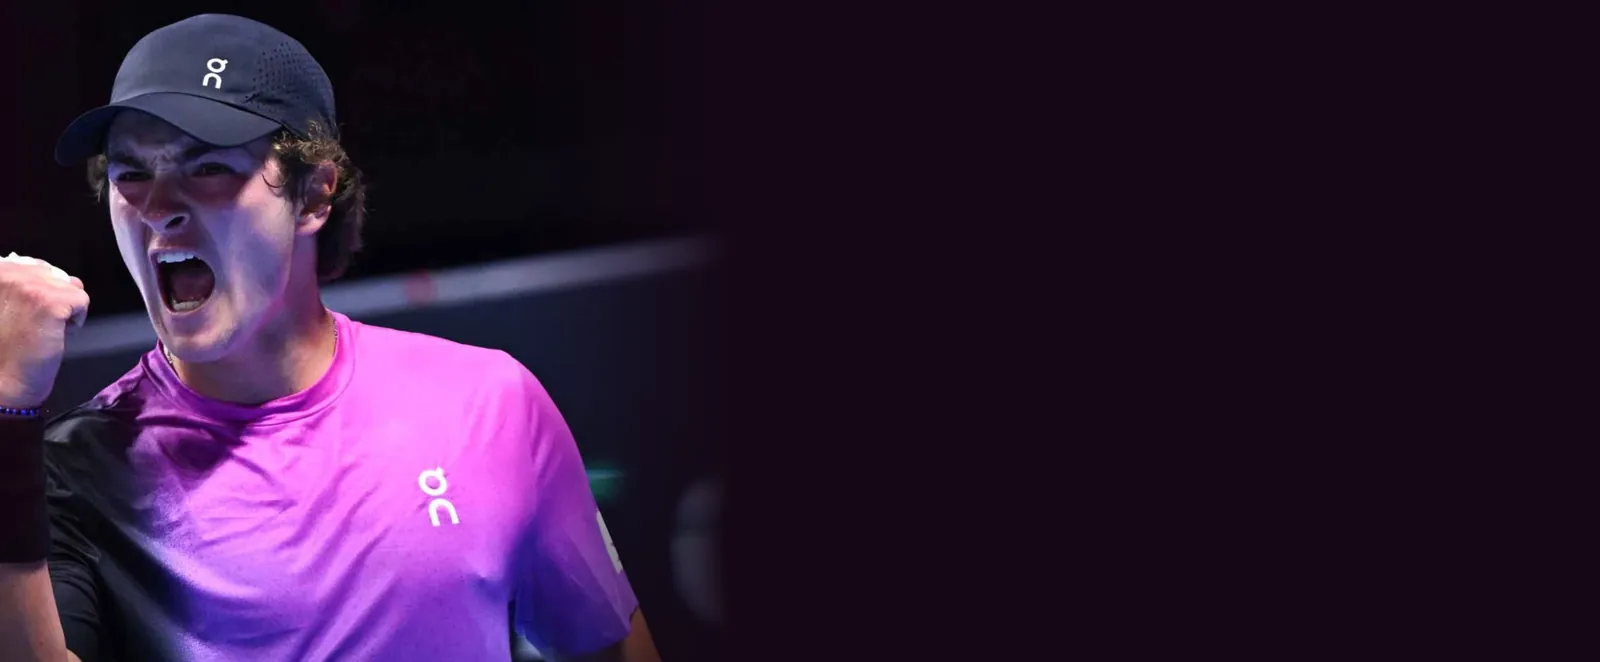
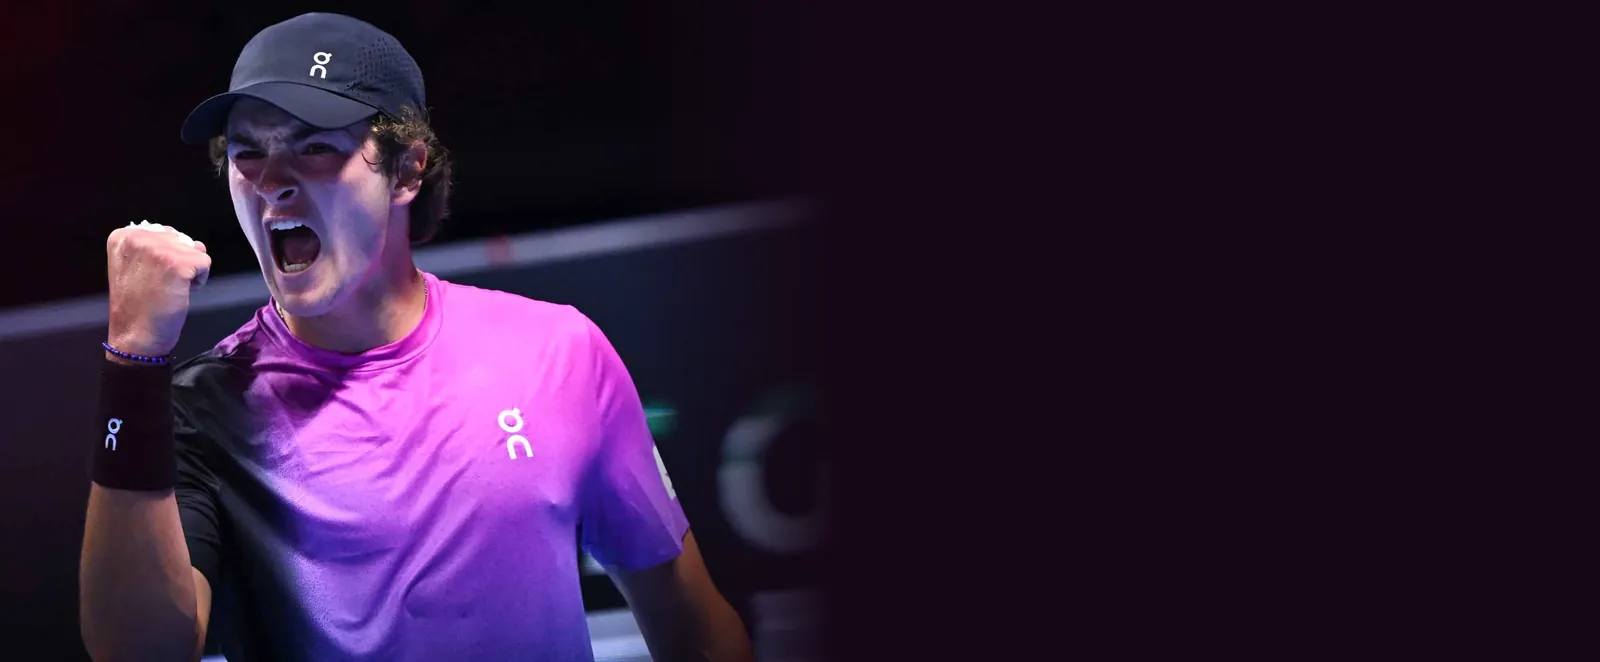
Hospitalidade: fotos novas, subtítulo em uma linha e layout mobile limpo
- Troca as 4 fotos pelas originais enviadas (F1, PSG, Flamengo, João Fonseca)
- Desktop: subtítulo da seção em uma linha
- Mobile: foto solta em cima (16:9, sem degradê), respiro de 20px e texto,
  pills e foto alinhados na mesma margem; 44px entre os cards

Claude-Session: https://claude.ai/code/session_01HFqF5fQmqXePv9obHE1jZL

Changed region(s): [[0.0, 0.0, 0.5, 1.0]]

diff --git a/index.html b/index.html
@@ -506,7 +506,7 @@
       font-size: 17px;
       line-height: 1.6;
       color: var(--accent);
-      max-width: 620px;
+      max-width: none;
       margin: 0 0 36px;
     }
     .hosp-title {
@@ -521,6 +521,7 @@
       margin-bottom: 16px;
     }
     .hosp-date { color: var(--white); font-weight: 400; }
+    .hosp-photo { display: none; }
     #hospitalidade .featured-content { max-width: 620px; }
     .hosp-foot {
       display: flex;
@@ -1109,21 +1110,25 @@
     .featured-pills,
     .featured-card.align-right .featured-pills { justify-content: flex-start; }
     .featured-pill { font-size: 11px; padding: 5px 12px; }
-    /* hospitalidade no celular: foto em cima, texto embaixo no fundo liso */
-    .hosp-card {
+    /* hospitalidade no celular: foto solta em cima (sem degradê), texto alinhado embaixo */
+    #hospitalidade .featured-stack { gap: 44px; }
+    #hospitalidade .featured-card.hosp-card {
       height: auto;
-      background-size: auto 220px;
-      background-repeat: no-repeat;
-      background-position: right top;
+      aspect-ratio: auto;
+      overflow: visible;
+      background: none !important;
     }
-    .hosp-card.align-right { background-position: left top; }
-    #hospitalidade .featured-card.hosp-card { height: auto; }
     .hosp-card::before,
-    .hosp-card.align-right::before {
-      background: linear-gradient(to bottom, transparent 0, transparent 110px, var(--bg) 214px, var(--bg) 100%);
+    .hosp-card.align-right::before { display: none; }
+    .hosp-photo {
+      display: block;
+      width: 100%;
+      height: auto;
+      aspect-ratio: 16 / 9;
+      object-fit: cover;
     }
     .hosp-card .featured-content,
-    .hosp-card.align-right .featured-content { padding-top: 232px; padding-bottom: 8px; }
+    .hosp-card.align-right .featured-content { padding: 20px 0 0; }
     .hosp-intro { font-size: 15px; margin-bottom: 24px; }
     .hosp-foot { flex-direction: column; align-items: flex-start; }
 
@@ -1599,6 +1604,7 @@
 
       <div class="featured-stack fade-in">
         <div class="featured-card hosp-card" style="background-image:url('assets/img/hosp-f1.webp');">
+          <img class="hosp-photo" src="assets/img/hosp-f1-m.webp" width="800" height="450" alt="Fórmula 1 em Interlagos" loading="lazy" decoding="async" />
           <div class="featured-content">
             <div class="featured-cat" data-i18n="hosp_f1_cat">AUTOMOBILISMO • INTERLAGOS</div>
             <h3 class="hosp-title" data-i18n="hosp_f1_title">FÓRMULA 1<br>GP DE SÃO PAULO</h3>
@@ -1607,6 +1613,7 @@
           </div>
         </div>
         <div class="featured-card hosp-card align-right" style="background-image:url('assets/img/hosp-champions.webp');">
+          <img class="hosp-photo" src="assets/img/hosp-champions-m.webp" width="800" height="450" alt="Final da Liga dos Campeões" loading="lazy" decoding="async" />
           <div class="featured-content">
             <div class="featured-cat" data-i18n="hosp_ucl_cat">FUTEBOL • EUROPA</div>
             <h3 class="hosp-title" data-i18n="hosp_ucl_title">FINAL DA<br>LIGA DOS CAMPEÕES</h3>
@@ -1615,6 +1622,7 @@
           </div>
         </div>
         <div class="featured-card hosp-card" style="background-image:url('assets/img/hosp-libertadores.webp');">
+          <img class="hosp-photo" src="assets/img/hosp-libertadores-m.webp" width="800" height="450" alt="Final da Libertadores" loading="lazy" decoding="async" />
           <div class="featured-content">
             <div class="featured-cat" data-i18n="hosp_lib_cat">FUTEBOL • AMÉRICA DO SUL</div>
             <h3 class="hosp-title" data-i18n="hosp_lib_title">FINAL DA<br>LIBERTADORES</h3>
@@ -1623,6 +1631,7 @@
           </div>
         </div>
         <div class="featured-card hosp-card align-right" style="background-image:url('assets/img/hosp-atp.webp');">
+          <img class="hosp-photo" src="assets/img/hosp-atp-m.webp" width="800" height="450" alt="Tênis no ATP Tour" loading="lazy" decoding="async" />
           <div class="featured-content">
             <div class="featured-cat" data-i18n="hosp_atp_cat">TÊNIS • CIRCUITO MUNDIAL</div>
             <h3 class="hosp-title" data-i18n="hosp_atp_title">ATP<br>TOUR</h3>
